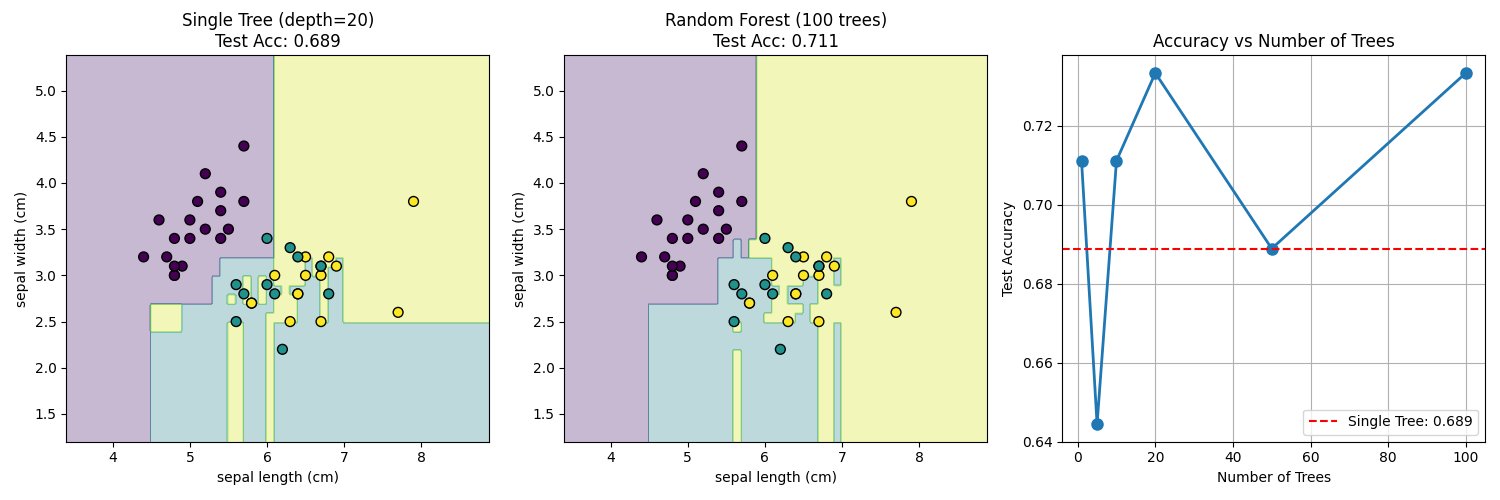
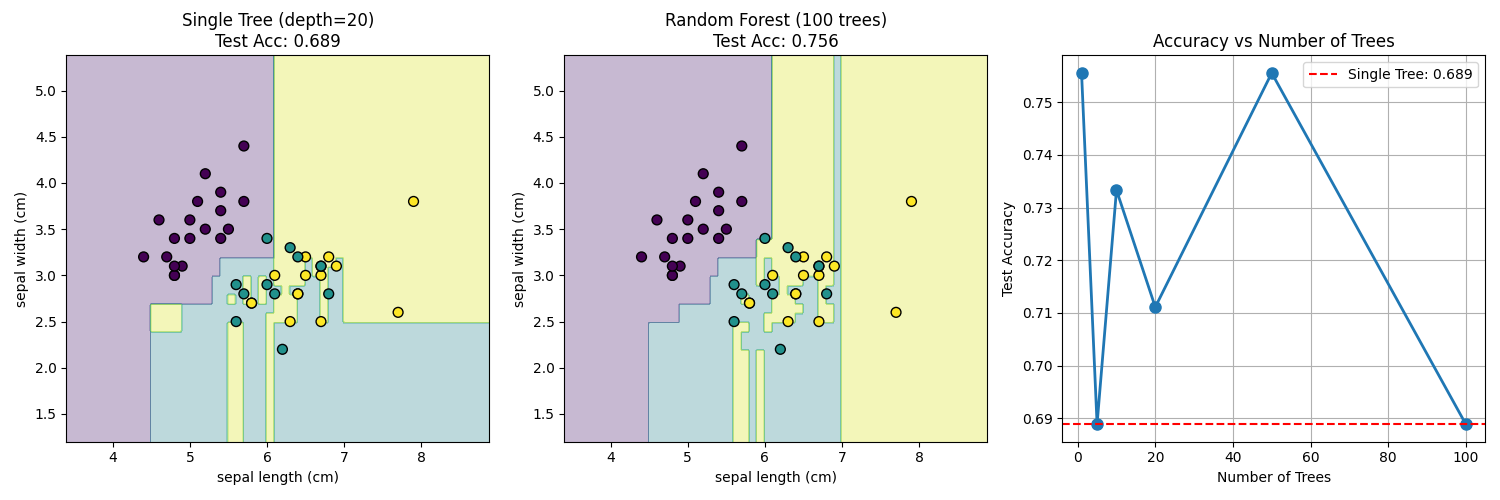
Update Random Forest visualization and enhance classifier parameters for improved accuracy

diff --git a/AIML/ranforest_from_scratch.py b/AIML/ranforest_from_scratch.py
@@ -296,7 +296,7 @@ if __name__ == "__main__":
 
     plt.subplot(1, 3, 2)
     plot_decision_boundary(
-        rf, X_test, y_test, f"Random Forest (100 trees)\nTest Acc: {test_acc_rf:.3f}"
+        rf2, X_test, y_test, f"Random Forest (100 trees)\nTest Acc: {test_acc_rf2:.3f}"
     )
 
     plt.subplot(1, 3, 3)
@@ -305,7 +305,9 @@ if __name__ == "__main__":
     test_accs = []
 
     for n in n_trees_list:
-        rf_temp = RandomForestClassifier(n_trees=n, max_depth=20, max_features="sqrt")
+        rf_temp = RandomForestClassifier(
+            n_trees=n, max_depth=20, min_samples_split=4, max_features="sqrt"
+        )
         rf_temp.fit(X_train, y_train)
         acc = np.mean(rf_temp.predict(X_test) == y_test)
         test_accs.append(acc)
